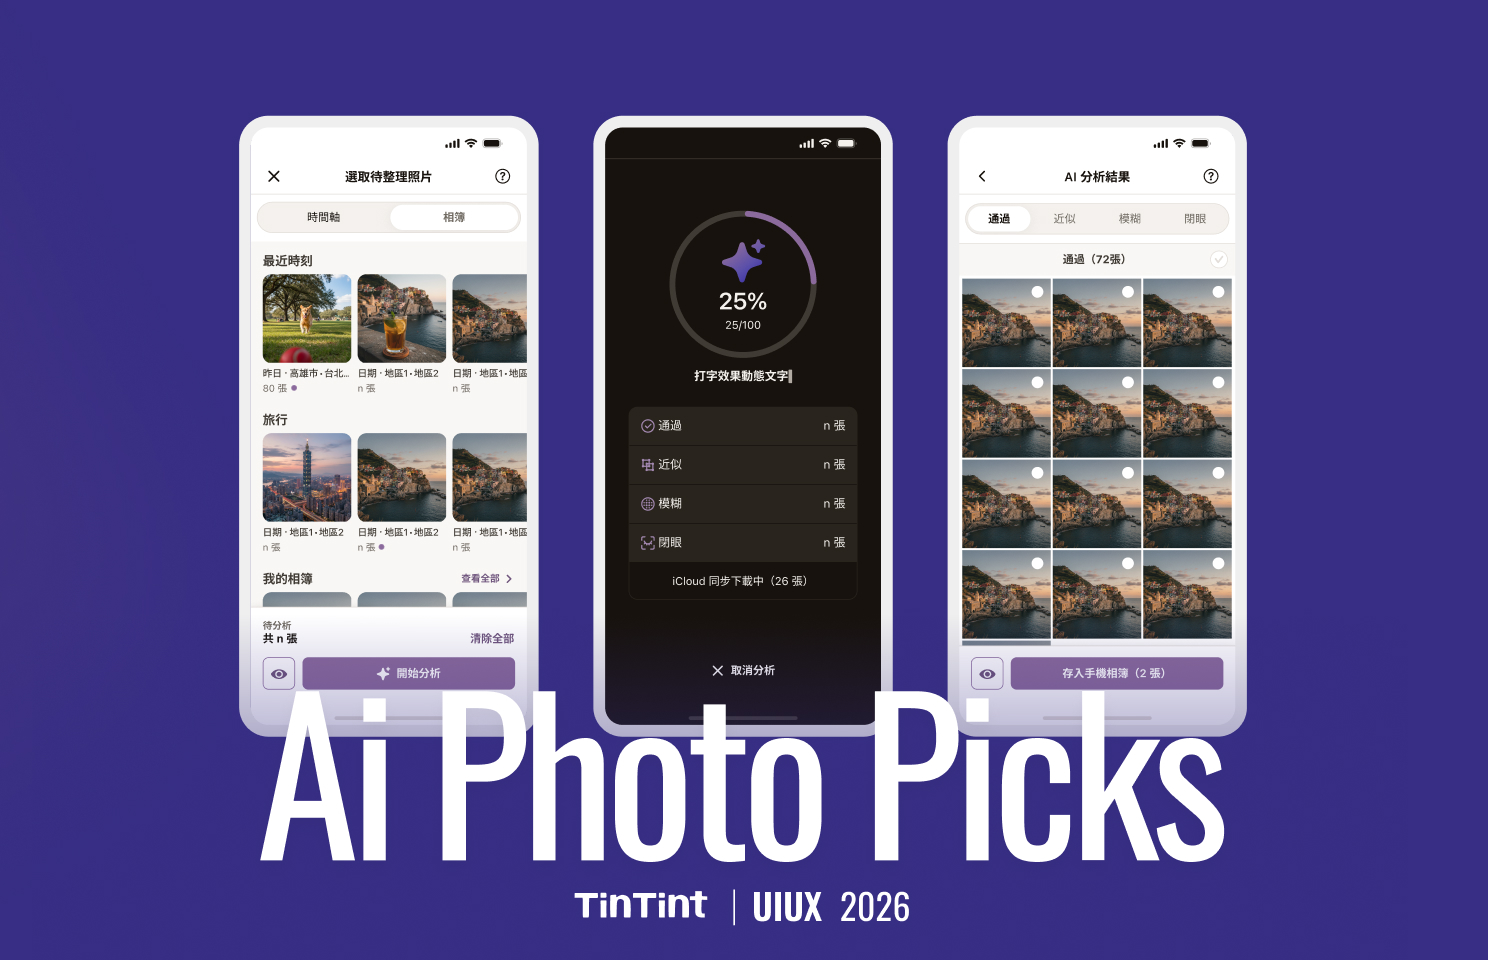
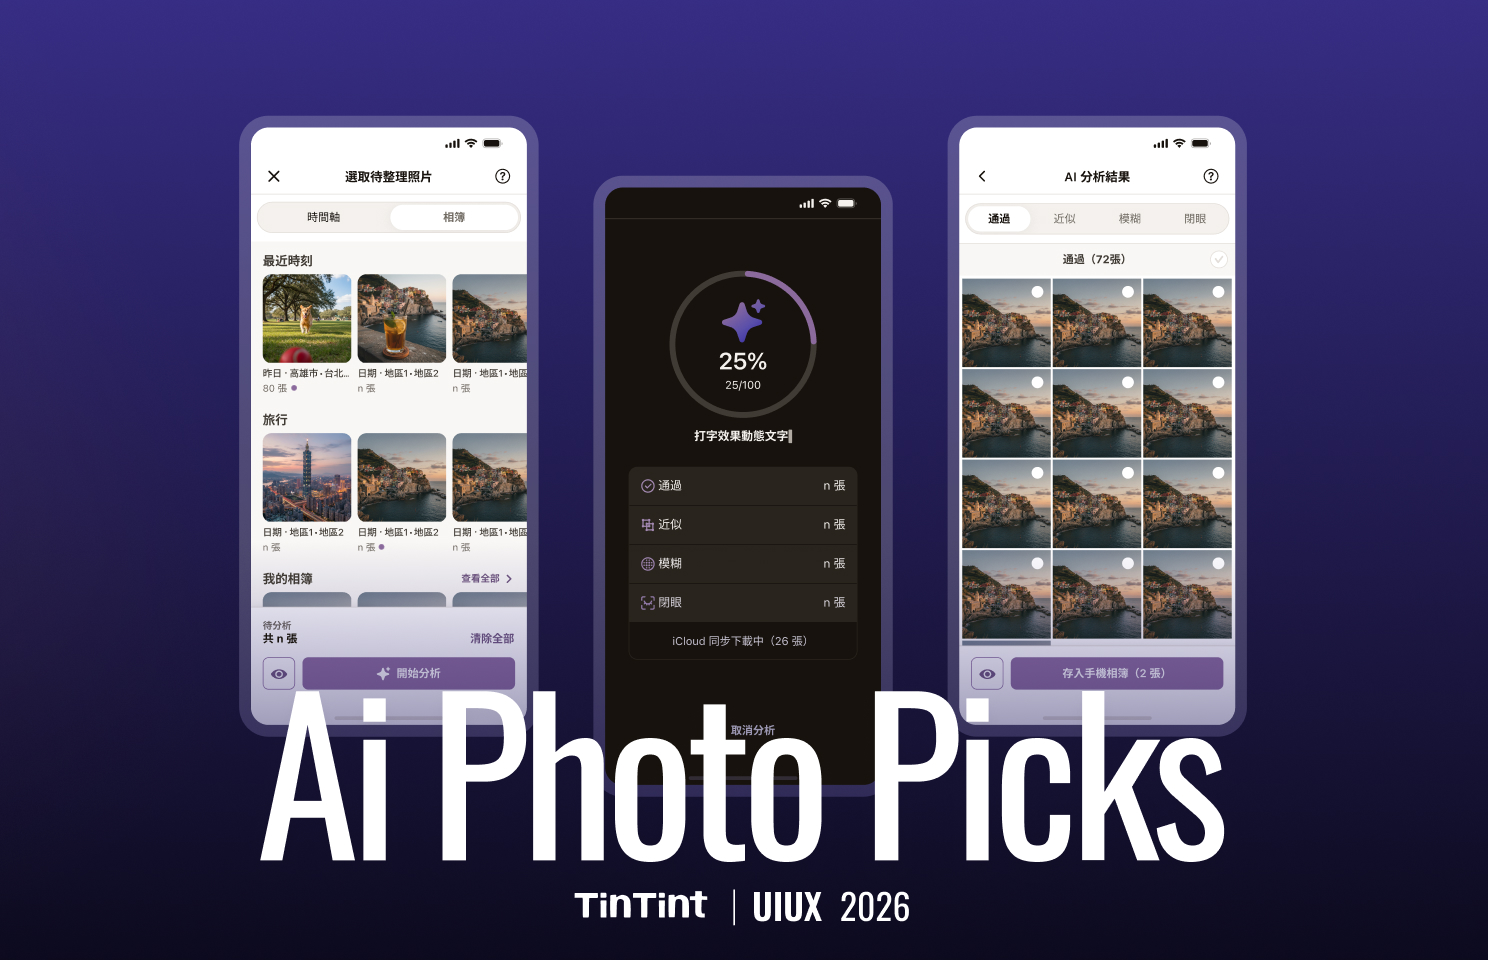
update: AI 挑照片頁改用紫色主色，痛點與功能定位改版
- 新增 css/ai-photo-picks.css：頁面主色改用 ai-layout 50（#8B6A9C），覆蓋全站棕色
- Header 改回白字版（transparent-header），原本掛成黑字版壓在深紫 banner 上
- 概述標題補上英文「｜Ai Photo Picks」
- 痛點改為左文右卡（1:2），新增插圖位與情境一／情境二文案
- 功能定位改為左圖右文（2:1），標題移入文字欄
- 雙模式與等待體驗兩區文案改寫
- 換上新版 banner 三尺寸

diff --git a/ai-photo-picks/index.html b/ai-photo-picks/index.html
@@ -9,6 +9,7 @@
     <link rel="stylesheet" href="/css/normalize.css">
     <link rel="stylesheet" href="/css/style.css">
     <link rel="stylesheet" href="/css/accordion.css">
+    <link rel="stylesheet" href="/css/ai-photo-picks.css">
     <link rel="preconnect" href="https://fonts.googleapis.com">
     <link rel="preconnect" href="https://fonts.gstatic.com" crossorigin>
     <!-- Google tag (gtag.js) -->
@@ -28,7 +29,7 @@
         })(window, document, "clarity", "script", "x8ekiirpo7");
     </script>
 </head>
-<body class="transparent-header-dark">
+<body class="transparent-header">
   <div class="wrapper">
     <!-- Start header -->
     <div id="site-header" data-include="/components/header.html"></div>
@@ -64,7 +65,7 @@
         <div class="overview">
           <div class="overview-left">
             <h2 class="title">概述 <span class="sm-title">Overview</span></h2>
-            <h3 class="title text-primary">AI 挑照片</h3>
+            <h3 class="title text-brand">AI 挑照片｜Ai Photo Picks</h3>
             <h5 class="title">#B2C #iOS App #AI Feature</h5>
             <div class="team-info">
               <p class="para"><strong>Team |</strong> TinTint 點點印</p>
@@ -86,41 +87,48 @@
       <!-- End Overview -->
 
       <!-- Start Pain Point -->
-      <div id="pain-point" class="top-container">
-        <div class="layout-center">
-          <h2 class="title">痛點 <span class="sm-title">Pain Point</span></h2>
-          <p class="para-16">兩個時刻，兩種「不知道從哪開始」</p>
-        </div>
-        <div class="notop-container two-column-grid">
-          <div class="item item-bg-grey">
-            <div class="content-header">
-              <span class="vertical-decorator"></span>
-              <h4>還沒開始做作品：照片庫太亂</h4>
-            </div>
-            <p class="para">幾百張旅遊照片躺在相簿裡，想整理卻不知道從哪一張下手。這個時刻還沒有具體目標，只是覺得「該整理了」。<b>缺的是一個起點。</b></p>
-          </div>
-          <div class="item item-bg-grey">
-            <div class="content-header">
-              <span class="vertical-decorator"></span>
-              <h4>已經在做作品：卡在判斷</h4>
-            </div>
-            <p class="para">正在做文庫本，相片池裡已經有幾十張，但不確定哪些比較好。卡住的是「哪張比較清楚、神情比較好」這種需要逐張比對才知道的事。<b>缺的是一個判斷依據。</b></p>
+      <div id="pain-point" class="top-container hero-grid m-1col-2col">
+        <div class="description-text">
+          <div class="flex-v-8">
+            <h2 class="title">痛點分析 <span class="sm-title">Pain Point</span><br>兩種「無從下手」的情境</h2>
+            <p class="para"><b>設計決策：雙入口分流</b></p>
+            <p class="para">需求差異決定了流程必須分開設計。若僅設單一入口，必定會犧牲其中一方的體驗：</p>
+            <ul class="para">
+              <li><b>放在首頁：</b>正在編輯作品的使用者，必須被迫中斷流程並退出才能使用。</li>
+              <li><b>放在編輯器：</b>尚未開始製作作品的使用者，將永遠無法發現此功能。</li>
+            </ul>
           </div>
         </div>
-        <div class="notop-container layout-center">
-          <p class="para t-center"><b>這個差異決定了兩條流程要分開設計｜</b>如果只做一個入口，就得選一邊放棄。放在首頁，正在編輯的人得退出作品才能用；放在編輯器裡，還沒開始做作品的人永遠找不到。</p>
+        <div class="flex-v-24">
+          <div class="item item-bg-grey item-illus">
+            <div class="illus-slot"><!-- 插圖：情境一 --></div>
+            <div class="illus-body">
+              <div class="content-header">
+                <span class="vertical-decorator"></span>
+                <h4>情境一｜尚未開始：照片庫太亂</h4>
+              </div>
+              <p class="para">面對數百張照片毫無頭緒，僅有模糊的整理動機。痛點：缺乏明確的「起點」。</p>
+            </div>
+          </div>
+          <div class="item item-bg-grey item-illus">
+            <div class="illus-slot"><!-- 插圖：情境二 --></div>
+            <div class="illus-body">
+              <div class="content-header">
+                <span class="vertical-decorator"></span>
+                <h4>情境二｜編輯途中：卡在選片判斷</h4>
+              </div>
+              <p class="para">面對數十張候選照片，難以快速比對畫質與人物神情。痛點：缺乏客觀的「判斷依據」。</p>
+            </div>
+          </div>
         </div>
       </div>
       <!-- End Pain Point -->
 
       <!-- Start Define -->
-      <div id="define" class="top-container">
-        <div class="layout-center">
+      <div id="define" class="img-txt top-container hero-grid d-2col-1col">
+        <img class="image-block lightbox-trigger" src="../images/ai-photo-picks/img_entry-home.jpg" alt="兩個入口的畫面：首頁底部的浮動按鈕，與編輯器相片工具列的 AI 按鈕">
+        <div class="description-text">
           <h2 class="title">功能定位 <span class="sm-title">Define</span></h2>
-          <p class="para-16">同一套判斷，兩個不同的終點</p>
-        </div>
-        <div class="notop-container hero-grid m-1col-2col">
-          <div class="description-text">
           <p class="para">兩條流程共用同一套分析、相同的判斷項目（模糊・閉眼・近似）與相同的結果頁。<b>差別只有兩件事：從哪裡進來，以及流程在哪裡結束。</b></p>
           <div class="accordion-group">
             <div class="accordion-item active" data-img="../images/ai-photo-picks/img_entry-home.jpg">
@@ -154,8 +162,6 @@
               </div>
             </div>
           </div>
-          </div>
-          <img class="image-block lightbox-trigger" src="../images/ai-photo-picks/img_entry-home.jpg" alt="兩個入口的畫面：首頁底部的浮動按鈕，與編輯器相片工具列的 AI 按鈕">
         </div>
       </div>
       <!-- End Define -->
@@ -347,13 +353,13 @@
         <div class="top-container hero-grid m-1col-2col">
           <div class="description-text">
             <div class="flex-v-8">
-              <h3 class="title">等待體驗優化：過程本身即是資訊</h3>
-              <p class="para">捨棄單一的時間提示，將系統處理的過程轉化為透明資訊，消除等待時的空白感：</p>
+              <h3 class="title">等待體驗優化：過程即資訊</h3>
+              <p class="para">捨棄單調的讀取提示，將處理過程轉化為透明資訊，消除等待時的空白感：</p>
               <ul class="para">
-                <li><b>即時動態回饋：</b>深色畫面中央設置圓形進度環，同步顯示百分比與處理張數。下方輔以打字效果的動態文字，精準說明系統當下的運作狀態。</li>
-                <li><b>進度透明化：</b>畫面即時累計「通過、近似、模糊、閉眼」四項分類跳動的數字。進度環解答「還要等多久」，分類計數則展示系統「正在做什麼」與「找到了什麼」。</li>
-                <li><b>任務拆分顯示：</b>獨立標示 iCloud 同步下載張數，不與相片分析混淆。將下載與分析兩項任務脫鉤，若進度卡關，使用者能直覺判斷問題癥結。</li>
-                <li><b>無縫流暢收尾：</b>完成後不跳轉頁面，進度環直接轉為完成勾號。分類統計保留原位並標示同步完成，底部隨即出現「查看結果」按鈕，且使用者在全程皆可隨時點擊取消分析。</li>
+                <li><b>即時動態回饋：</b>畫面中央設置圓形進度環，同步顯示百分比與處理張數；下方輔以打字機特效文字，精準說明系統當下運作狀態。</li>
+                <li><b>進度高度透明：</b>即時累計「通過、近似、模糊、閉眼」四項分類跳動數字。進度環解答「還要等多久」，分類計數則展現系統「正在做什麼」與「找到了什麼」。</li>
+                <li><b>任務拆分顯示：</b>獨立標示 iCloud 下載張數，與相片分析任務脫鉤。若進度停滯，使用者能直覺判斷問題癥結。</li>
+                <li><b>無縫流暢收尾：</b>完成後不跳轉頁面，進度環直接轉為完成勾號。分類統計保留原位並提示同步完成，底部隨即浮現「查看結果」按鈕，且全程提供隨時取消分析的選項。</li>
               </ul>
             </div>
           </div>
@@ -427,12 +433,12 @@
           <div class="description-text">
             <div class="flex-v-8">
               <h3 class="title">選取照片頁：時間軸與相簿雙模式</h3>
-              <p class="para">選取待整理照片頁分成「時間軸」與「相簿」兩種模式：時間軸依日期排列，相簿則在使用者既有的相簿之上，最上方放置自動分群的智慧相簿。</p>
+              <p class="para">提供「時間軸」與「相簿」雙軌瀏覽，順應使用者以「時間點」或「特定分類」尋找照片的直覺，無須改變既有記憶習慣。</p>
               <ul class="para">
-                <li><b>選取狀態一眼可辨：</b>相簿卡片標示該相簿的照片總數，只要裡面有照片被選取，卡片就多一個紫色圓點，不必逐個點進去就知道自己在哪些相簿選過。</li>
-                <li><b>權限受限也能繼續：</b>限制存取時頁面上方顯示提示列，可直接選取更多照片或前往設定；權限一變更，照片清單就自動重新載入。</li>
+                <li><b>雙模式檢視：</b>時間軸依日期排序；相簿模式則將智慧相簿置頂於既有相簿之上。</li>
+                <li><b>選取狀態視覺化：</b>相簿卡片顯示照片總數，並以紫色圓點標記內含已選取照片的相簿，無須點擊進入即可一目了然。</li>
+                <li><b>無縫權限引導：</b>存取受限時，頂部顯示提示列供快速設定或加選照片；權限變更後清單即時自動重載，確保操作不中斷。</li>
               </ul>
-              <p class="para">提供兩種模式，是因為找照片的方式跟記得事情的方式有關：記得「去年沖繩」的人用時間找，記得「存在某個相簿」的人用相簿找。<b>不要求使用者換一套記憶方式。</b></p>
             </div>
           </div>
           <img class="image-block lightbox-trigger" src="../images/ai-photo-picks/img_select-photos.jpg" alt="選取待整理照片頁：時間軸與相簿兩種模式，相簿含智慧分群的最近時刻與旅行">

diff --git a/css/ai-photo-picks.css b/css/ai-photo-picks.css
@@ -1,0 +1,61 @@
+@charset "utf-8";
+
+/* -------------------------- *\
+	AI 挑照片品牌色（覆蓋全站 text-primary 棕色）
+	使用頁面 Style Guide 的 ai-layout 50：#8B6A9C
+\* -------------------------- */
+
+.text-brand {
+  color: #8B6A9C;
+}
+
+.vertical-decorator {
+  background-color: #8B6A9C;
+}
+
+/* -------------------------- *\
+	灰卡左側插圖位
+	.item 加上 .item-illus：窄螢幕圖在上、寬螢幕圖在左
+	.illus-slot 空著時是淺灰方塊，之後把 <img> 放進去即可
+\* -------------------------- */
+
+.item-illus > .illus-slot {
+  width: 88px;
+  aspect-ratio: 1 / 1;
+  flex-shrink: 0;
+  border-radius: 4px;
+  background-color: #EDEDED;
+  overflow: hidden;
+}
+
+.item-illus > .illus-slot img {
+  width: 100%;
+  height: 100%;
+  object-fit: cover;
+}
+
+.item-illus > .illus-body {
+  flex: 1;
+  min-width: 0;
+  display: flex;
+  flex-direction: column;
+  gap: 12px;
+}
+
+/* 卡片夠寬時才改成左圖右文，不然文字會被擠到剩十來字一行 */
+@media (min-width: 1024px) {
+  .item-illus {
+    flex-direction: row;
+    align-items: center;
+    gap: 24px;
+  }
+
+  .item-illus > .illus-slot {
+    width: clamp(88px, 18%, 140px);
+  }
+}
+
+/* 欄寬變窄時，英文副標整組換行，不要斷成 Pain / Point */
+.sm-title {
+  white-space: nowrap;
+}
